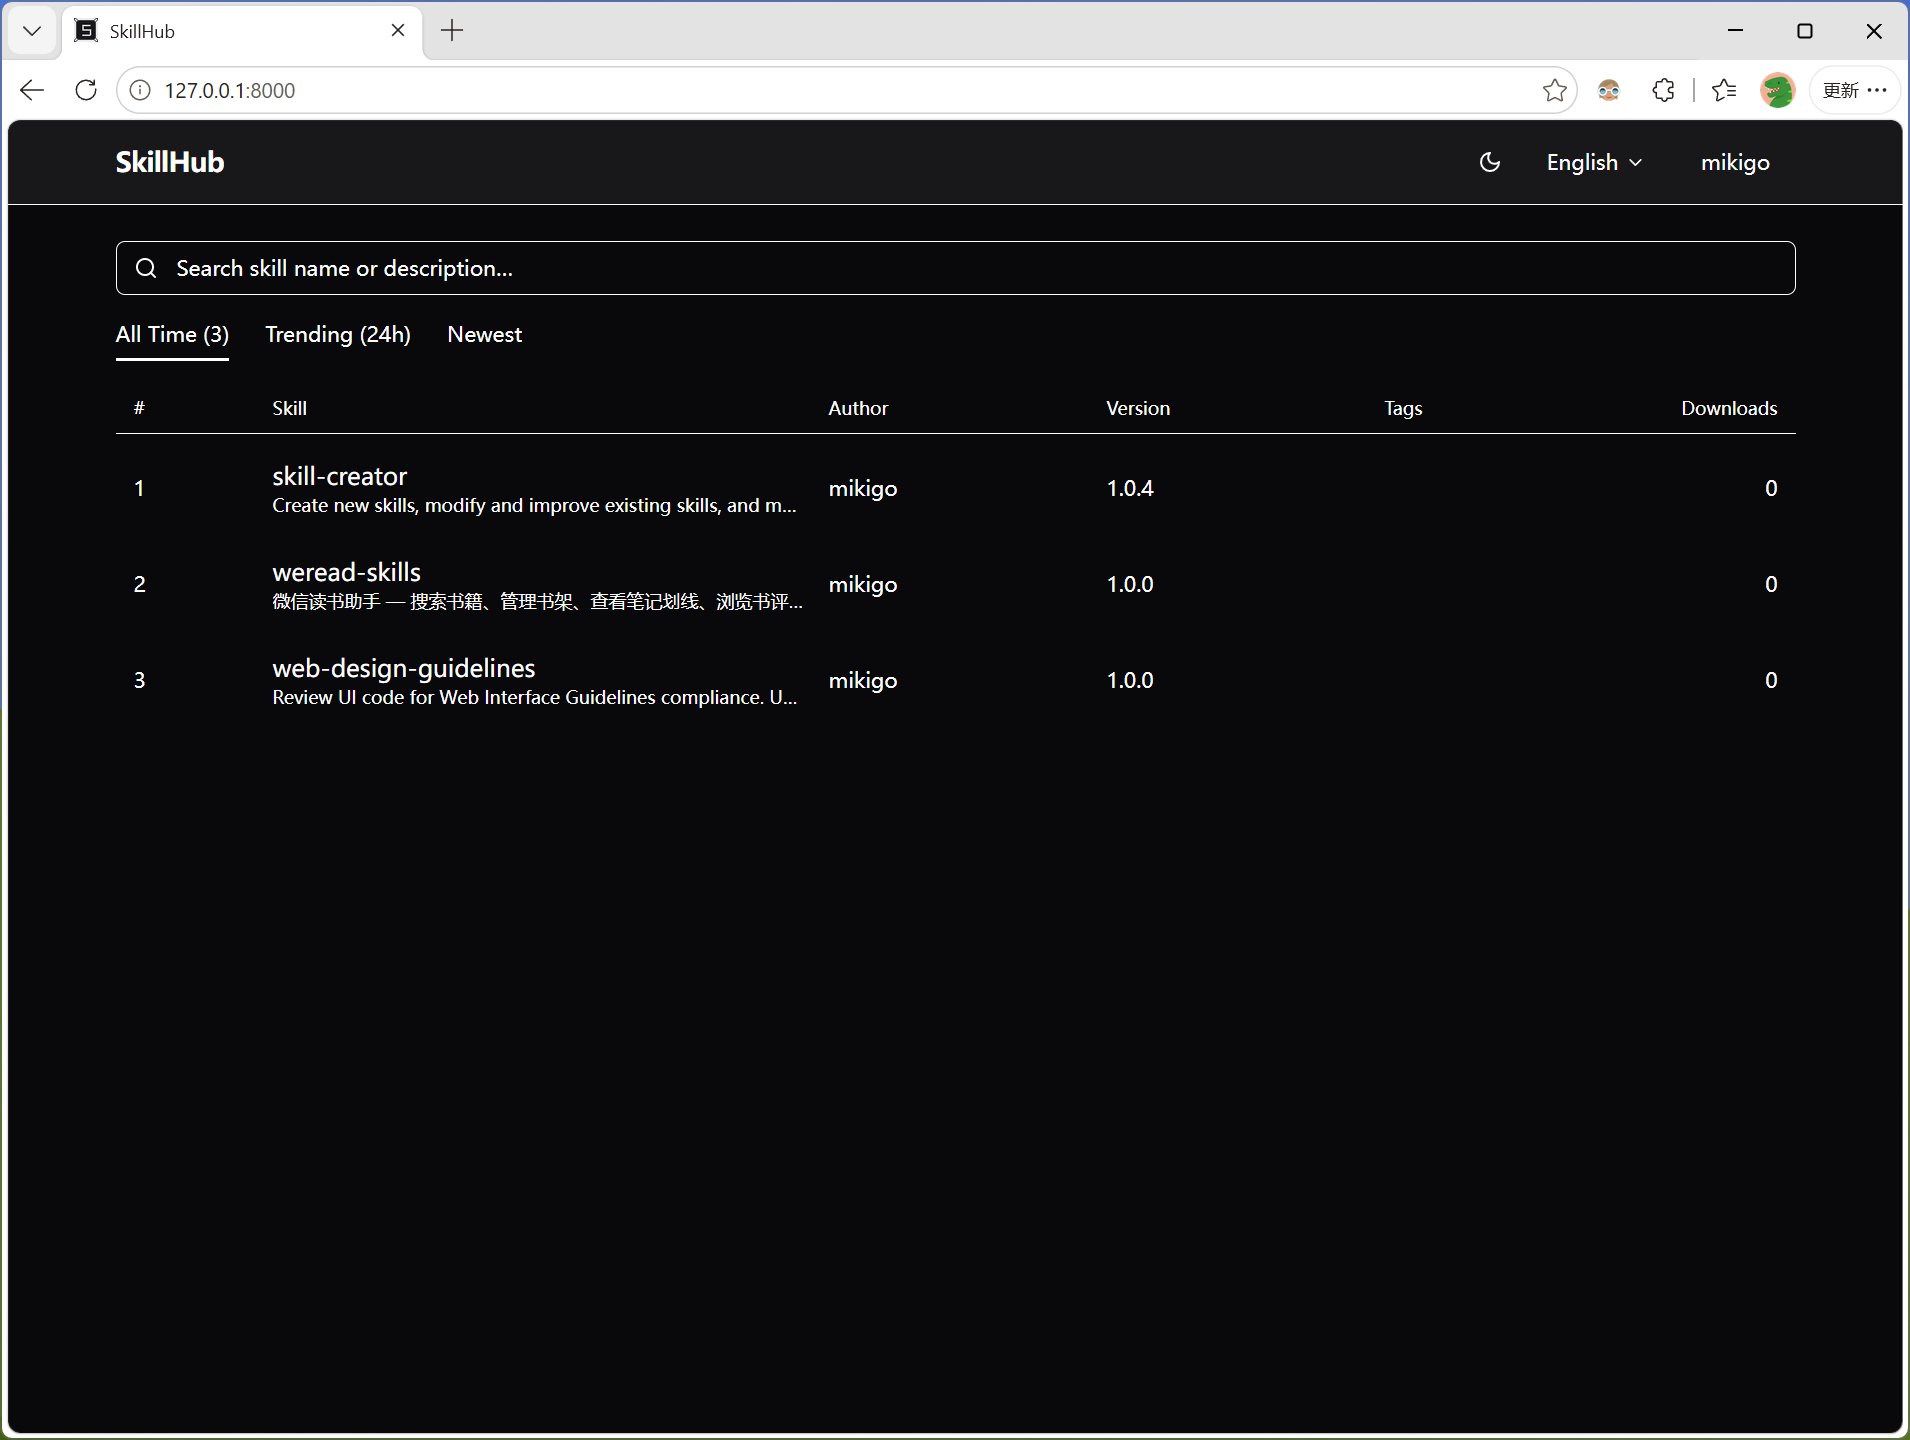
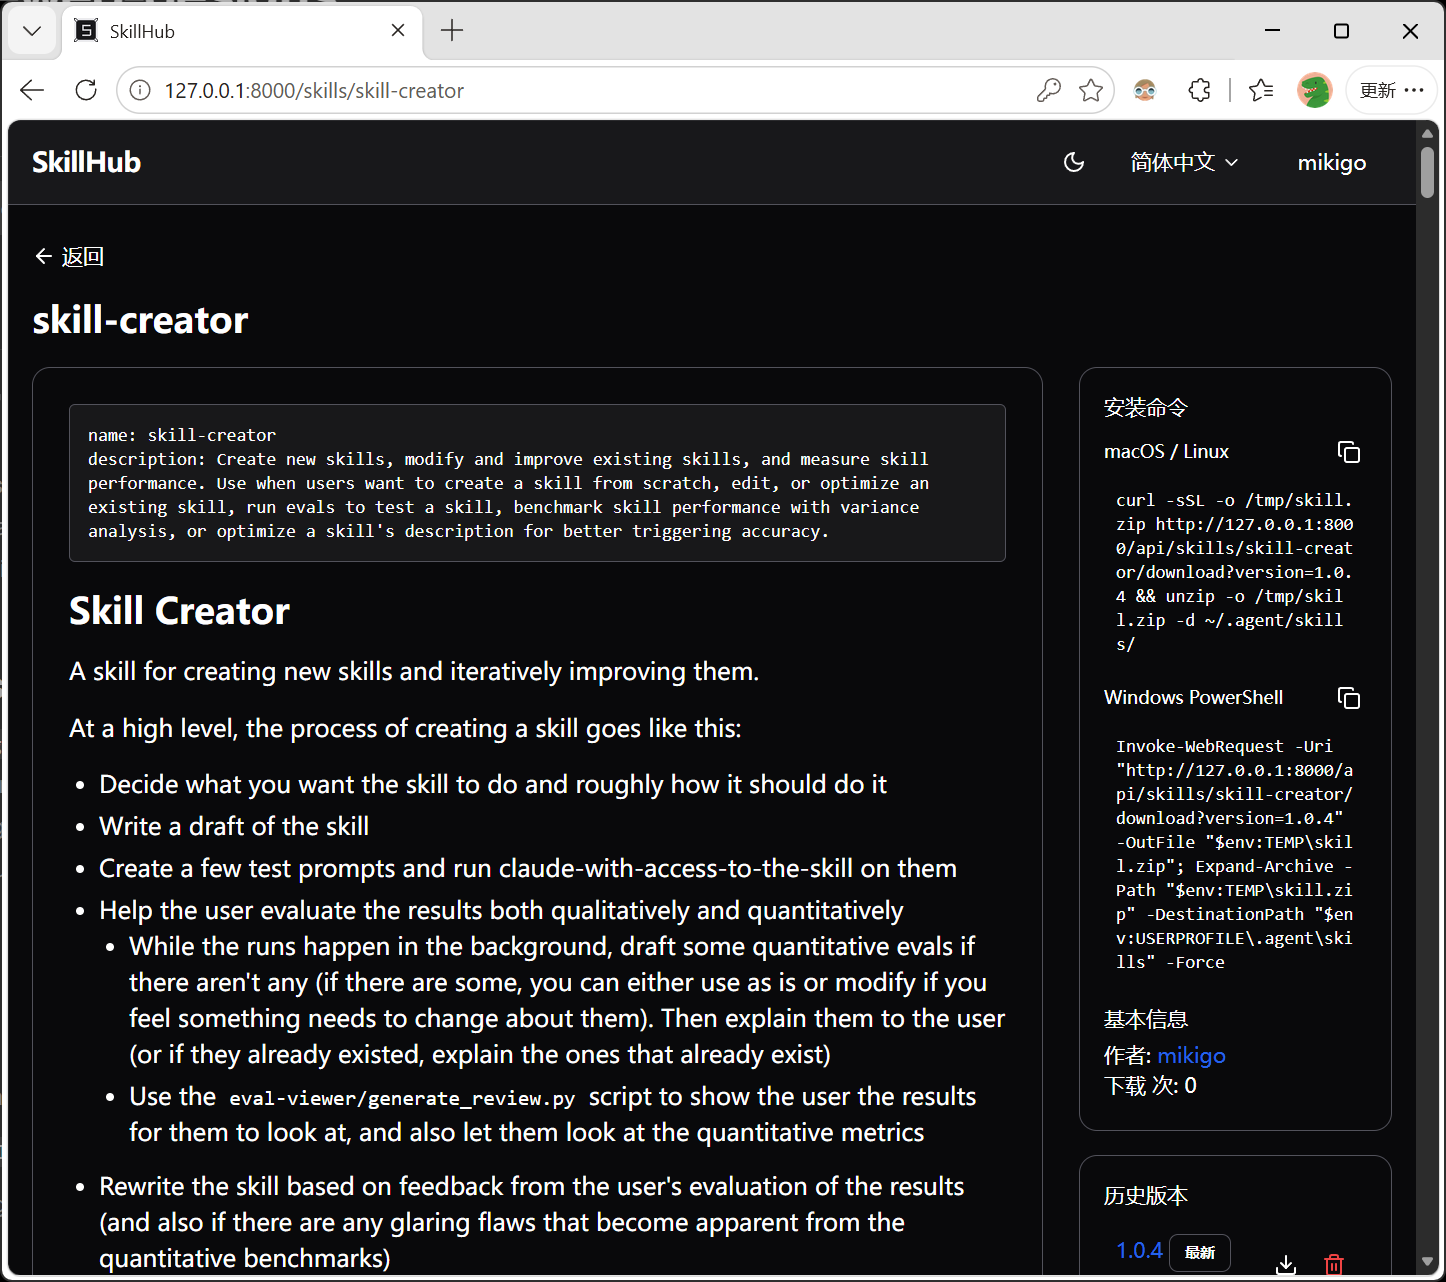
update

diff --git a/website/index.html b/website/index.html
@@ -195,11 +195,13 @@
       <h2 class="section-title" data-i18n="screenshots.title">简洁直观的界面</h2>
       <p class="section-desc" style="margin:0 auto 32px" data-i18n="screenshots.desc">精心设计的交互体验，团队上手即用。</p>
       <div class="tabs">
-        <button class="active" onclick="switchScreenshot('public/dark.png', this)" data-i18n="screenshots.tab1">暗色主题</button>
-        <button onclick="switchScreenshot('public/white.png', this)" data-i18n="screenshots.tab2">亮色主题</button>
-        <button onclick="switchScreenshot('public/login.png', this)" data-i18n="screenshots.tab3">登录页</button>
+        <button class="active" onclick="switchScreenshot('public/home.png', this)" data-i18n="screenshots.tab1">主页</button>
+        <button onclick="switchScreenshot('public/upload.png', this)" data-i18n="screenshots.tab2">上传页</button>
+        <button onclick="switchScreenshot('public/myskill.png', this)" data-i18n="screenshots.tab3">我的技能</button>
+        <button onclick="switchScreenshot('public/dark.png', this)" data-i18n="screenshots.tab4">暗色主题</button>
+        <button onclick="switchScreenshot('public/white.png', this)" data-i18n="screenshots.tab5">亮色主题</button>
       </div>
-      <img id="screenshot" src="public/dark.png" alt="暗色主题截图" class="screenshot-img">
+      <img id="screenshot" src="public/home.png" alt="主页截图" class="screenshot-img">
     </div>
   </section>
 
@@ -268,7 +270,7 @@
         'features.f5t':'主题与国际化','features.f5d':'亮色/暗色主题，中英文界面。支持自定义 Logo 与 Favicon。',
         'features.f6t':'管理面板','features.f6d':'审批用户、禁用/启用账号、创建用户。完全掌控访问权限。',
         'screenshots.label':'界面展示','screenshots.title':'简洁直观的界面','screenshots.desc':'精心设计的交互体验，团队上手即用。',
-        'screenshots.tab1':'暗色主题','screenshots.tab2':'亮色主题','screenshots.tab3':'登录页',
+        'screenshots.tab1':'主页','screenshots.tab2':'上传页','screenshots.tab3':'我的技能','screenshots.tab4':'暗色主题','screenshots.tab5':'亮色主题',
         'stats.label':'关键数据','stats.title':'为规模化而生',
         'stats.s1':'一个可执行文件','stats.s2':'种语言（中 / 英）','stats.s3':'外部依赖','stats.s4':'技能托管容量',
         'install.label':'快速开始','install.title':'三条命令完成安装','install.desc':'默认使用 SQLite，零配置启动。随时可升级至 PostgreSQL。',
@@ -289,7 +291,7 @@
         'features.f5t':'Dark Mode & i18n','features.f5d':'Light/dark themes. Chinese and English locales. Customizable logo, favicon via config.json.',
         'features.f6t':'Admin Dashboard','features.f6d':'Approve users, disable accounts, create users. Full control over who accesses your skill hub.',
         'screenshots.label':'Screenshots','screenshots.title':'Sleek and intuitive','screenshots.desc':'A polished interface your team will actually enjoy using.',
-        'screenshots.tab1':'Dark Theme','screenshots.tab2':'Light Theme','screenshots.tab3':'Login',
+        'screenshots.tab1':'Home','screenshots.tab2':'Upload','screenshots.tab3':'My Skills','screenshots.tab4':'Dark Theme','screenshots.tab5':'Light Theme',
         'stats.label':'By the Numbers','stats.title':'Built for scale',
         'stats.s1':'Binary to deploy','stats.s2':'Languages (EN / 中文)','stats.s3':'External dependencies','stats.s4':'Skills you can host',
         'install.label':'Quick Start','install.title':'Install in 3 commands','install.desc':'Zero-config SQLite by default. Scale to PostgreSQL when ready.',

diff --git a/frontend/src/pages/Home.tsx b/frontend/src/pages/Home.tsx
@@ -78,6 +78,9 @@ export default function Home() {
           <Search className="absolute left-3 top-1/2 -translate-y-1/2 h-4 w-4 text-muted-foreground" />
           <Input
             className="pl-10"
+            name="q"
+            autoComplete="off"
+            spellCheck={false}
             placeholder={t('home.search')}
             value={q}
             onChange={e => setQ(e.target.value)}
@@ -123,10 +126,9 @@ export default function Home() {
         <div className="text-center py-20 text-muted-foreground">{t('home.empty')}</div>
       ) : (
         <div className="space-y-2">
-          <div className="grid gap-3 text-xs text-muted-foreground px-3 py-2 border-b" style={{ gridTemplateColumns: '1fr 15fr 2fr 2fr' }}>
+          <div className="grid gap-3 text-xs text-muted-foreground px-3 py-2 border-b" style={{ gridTemplateColumns: '1fr 15fr 3fr' }}>
             <span>{t('home.headerNum')}</span>
             <span>{t('home.headerSkill')}</span>
-            <span>{t('home.headerAuthor')}</span>
             <span className="text-right">{t('home.headerDownloads')}</span>
           </div>
           {skills.map((skill, i) => (
@@ -134,18 +136,12 @@ export default function Home() {
               key={skill.name}
               to={`/skills/${skill.name}`}
               className="grid gap-3 px-3 py-2 rounded hover:bg-muted items-center"
-              style={{ gridTemplateColumns: '1fr 15fr 2fr 2fr' }}
+              style={{ gridTemplateColumns: '1fr 15fr 3fr' }}
             >
               <span className="text-sm text-muted-foreground">{(page - 1) * PAGE_SIZE + i + 1}</span>
               <div className="min-w-0" title={skill.description}>
                 <div className="font-medium truncate">{skill.display_name}</div>
                 <div className="text-xs text-muted-foreground truncate">{skill.description}</div>
-              </div>
-<div className="min-w-0">
-                <Link to={`/author/${skill.author.username}`} className="text-sm text-muted-foreground hover:text-blue-500 truncate">
-                  {skill.author.username}
-                </Link>
-                {skill.original_author && <div className="text-xs text-muted-foreground truncate">{skill.original_author}</div>}
               </div>
               <span className="text-sm text-right text-muted-foreground">{skill.download_count.toLocaleString()}</span>
             </Link>

diff --git a/frontend/src/components/ui/dialog.tsx b/frontend/src/components/ui/dialog.tsx
@@ -36,15 +36,14 @@ const DialogContent = React.forwardRef<
     <DialogPrimitive.Content
       ref={ref}
       className={cn(
-        "fixed left-[50%] top-[50%] z-50 grid w-full max-w-lg translate-x-[-50%] translate-y-[-50%] gap-4 border bg-background p-6 shadow-lg duration-200 data-[state=open]:animate-in data-[state=closed]:animate-out data-[state=closed]:fade-out-0 data-[state=open]:fade-in-0 data-[state=closed]:zoom-out-95 data-[state=open]:zoom-in-95 data-[state=closed]:slide-out-to-left-1/2 data-[state=closed]:slide-out-to-top-[48%] data-[state=open]:slide-in-from-left-1/2 data-[state=open]:slide-in-from-top-[48%] sm:rounded-lg",
+        "fixed left-[50%] top-[50%] z-50 grid w-full max-w-lg translate-x-[-50%] translate-y-[-50%] gap-4 border bg-background p-6 shadow-lg duration-200 data-[state=open]:animate-in data-[state=closed]:animate-out data-[state=closed]:fade-out-0 data-[state=open]:fade-in-0 data-[state=closed]:zoom-out-95 data-[state=open]:zoom-in-95 data-[state=closed]:slide-out-to-left-1/2 data-[state=closed]:slide-out-to-top-[48%] data-[state=open]:slide-in-from-left-1/2 data-[state=open]:slide-in-from-top-[48%] sm:rounded-lg overscroll-contain",
         className
       )}
       {...props}
     >
       {children}
-      <DialogPrimitive.Close className="absolute right-4 top-4 rounded-sm opacity-70 ring-offset-background transition-opacity hover:opacity-100 focus:outline-none focus:ring-2 focus:ring-ring focus:ring-offset-2 disabled:pointer-events-none data-[state=open]:bg-accent data-[state=open]:text-muted-foreground">
-        <X className="h-4 w-4" />
-        <span className="sr-only">Close</span>
+      <DialogPrimitive.Close aria-label="Close" className="absolute right-4 top-4 rounded-sm opacity-70 ring-offset-background transition-opacity hover:opacity-100 focus:outline-none focus:ring-2 focus:ring-ring focus:ring-offset-2 disabled:pointer-events-none data-[state=open]:bg-accent data-[state=open]:text-muted-foreground">
+        <X className="h-4 w-4" aria-hidden="true" />
       </DialogPrimitive.Close>
     </DialogPrimitive.Content>
   </DialogPortal>

diff --git a/frontend/src/pages/SkillDetail.tsx b/frontend/src/pages/SkillDetail.tsx
@@ -201,9 +201,9 @@ export default function SkillDetail() {
               <div className="text-sm text-muted-foreground mb-2">{t('skillDetail.versions')}</div>
               <div className="space-y-1">
                 {skill.versions.map((v) => (
-                  <div
+                  <button
                     key={v.version}
-                    className={`flex items-center justify-between p-2 rounded text-sm cursor-pointer ${selectedVersion === v.version ? 'bg-primary/10 dark:bg-primary/20' : 'hover:bg-muted dark:bg-zinc-800/50'}`}
+                    className={`w-full flex items-center justify-between p-2 rounded text-sm cursor-pointer text-left ${selectedVersion === v.version ? 'bg-primary/10 dark:bg-primary/20' : 'hover:bg-muted dark:bg-zinc-800/50'}`}
                     onClick={() => handleVersionClick(v.version)}
                   >
                     <div>
@@ -213,15 +213,15 @@ export default function SkillDetail() {
                     </div>
                     <div className="flex gap-1">
                       <a href={`api/skills/${name}/download?version=${v.version}`} onClick={e => e.stopPropagation()}>
-                        <Button variant="ghost" size="icon" className="h-7 w-7"><Download className="h-3 w-3" /></Button>
+                        <Button variant="ghost" size="icon" className="h-7 w-7" aria-label="Download"><Download className="h-3 w-3" /></Button>
                       </a>
                       {isAuthor && (
-                        <Button variant="ghost" size="icon" className="h-7 w-7 text-red-500" onClick={(e) => { e.stopPropagation(); handleDeleteVersion(v.version) }}>
+                        <Button variant="ghost" size="icon" className="h-7 w-7 text-red-500" aria-label="Delete" onClick={(e) => { e.stopPropagation(); handleDeleteVersion(v.version) }}>
                           <Trash2 className="h-3 w-3" />
                         </Button>
                       )}
                     </div>
-                  </div>
+                  </button>
                 ))}
               </div>
             </CardContent>

diff --git a/frontend/src/components/Layout.tsx b/frontend/src/components/Layout.tsx
@@ -65,7 +65,7 @@ export default function Layout() {
       <header className={`sticky top-0 z-50 border-b bg-white dark:bg-zinc-900 transition-transform duration-300 ${headerVisible ? 'translate-y-0' : '-translate-y-full'}`}>
         <div className="max-w-6xl mx-auto px-4 h-14 flex items-center justify-between">
           <Link to="/" className="flex items-center gap-2 font-semibold tracking-tight text-lg" translate="no">
-            {siteConfig.logo && <img src="/api/config/logo" alt="" className="h-6 w-6 object-contain" />}
+            {siteConfig.logo && <img src="/api/config/logo" alt="" width="24" height="24" className="h-6 w-6 object-contain" />}
             <span>{siteConfig.logo_text}</span>
           </Link>
           <div className="flex items-center">
@@ -74,8 +74,8 @@ export default function Layout() {
               className="inline-flex h-9 w-9 shrink-0 items-center justify-center rounded-md text-muted-foreground transition-colors hover:bg-muted hover:text-foreground"
               onClick={() => setTheme(theme === 'dark' ? 'light' : 'dark')}
             >
-              <Sun className="h-4 w-4 rotate-0 scale-100 transition-all dark:-rotate-90 dark:scale-0" />
-              <Moon className="absolute h-4 w-4 rotate-90 scale-0 transition-all dark:rotate-0 dark:scale-100" />
+              <Sun className="h-4 w-4 rotate-0 scale-100 transition-all dark:-rotate-90 dark:scale-0" aria-hidden="true" />
+              <Moon className="absolute h-4 w-4 rotate-90 scale-0 transition-all dark:rotate-0 dark:scale-100" aria-hidden="true" />
             </button>
             <div className="relative mx-3" ref={langMenuRef}>
               <button

diff --git a/frontend/src/pages/Register.tsx b/frontend/src/pages/Register.tsx
@@ -49,15 +49,15 @@ export default function Register() {
           <form onSubmit={handleSubmit} className="space-y-4">
             <div>
               <Label htmlFor="username">{t('auth.username')}</Label>
-              <Input id="username" value={username} onChange={e => setUsername(e.target.value)} required />
+              <Input id="username" name="username" autoComplete="username" spellCheck={false} value={username} onChange={e => setUsername(e.target.value)} required />
             </div>
             <div>
               <Label htmlFor="password">{t('auth.password')}</Label>
-              <Input id="password" type="password" value={password} onChange={e => setPassword(e.target.value)} required />
+              <Input id="password" name="password" type="password" autoComplete="new-password" value={password} onChange={e => setPassword(e.target.value)} required />
             </div>
             <div>
               <Label htmlFor="confirm">{t('auth.confirmPassword')}</Label>
-              <Input id="confirm" type="password" value={confirm} onChange={e => setConfirm(e.target.value)} required />
+              <Input id="confirm" name="confirm" type="password" autoComplete="new-password" value={confirm} onChange={e => setConfirm(e.target.value)} required />
             </div>
             <p className="text-xs text-muted-foreground">{t('auth.pendingNote')}</p>
             <Button type="submit" className="w-full" disabled={loading}>

diff --git a/frontend/src/pages/Admin.tsx b/frontend/src/pages/Admin.tsx
@@ -94,8 +94,8 @@ export default function Admin() {
           <DialogContent>
             <DialogHeader><DialogTitle>{t('admin.createTitle')}</DialogTitle></DialogHeader>
             <form onSubmit={createUser} className="space-y-3">
-              <div><Label>{t('auth.username')}</Label><Input value={newUsername} onChange={e => setNewUsername(e.target.value)} required /></div>
-              <div><Label>{t('auth.password')}</Label><Input type="password" value={newPassword} onChange={e => setNewPassword(e.target.value)} required /></div>
+              <div><Label>{t('auth.username')}</Label><Input name="username" autoComplete="username" spellCheck={false} value={newUsername} onChange={e => setNewUsername(e.target.value)} required /></div>
+              <div><Label>{t('auth.password')}</Label><Input name="password" type="password" autoComplete="new-password" value={newPassword} onChange={e => setNewPassword(e.target.value)} required /></div>
               <Button type="submit">{t('admin.createUser')}</Button>
             </form>
           </DialogContent>

diff --git a/frontend/src/pages/Login.tsx b/frontend/src/pages/Login.tsx
@@ -49,11 +49,11 @@ export default function Login() {
           <form onSubmit={handleSubmit} className="space-y-4">
             <div>
               <Label htmlFor="username">{t('auth.username')}</Label>
-              <Input id="username" value={username} onChange={e => setUsername(e.target.value)} required />
+              <Input id="username" name="username" autoComplete="username" spellCheck={false} value={username} onChange={e => setUsername(e.target.value)} required />
             </div>
             <div>
               <Label htmlFor="password">{t('auth.password')}</Label>
-              <Input id="password" type="password" value={password} onChange={e => setPassword(e.target.value)} required />
+              <Input id="password" name="password" type="password" autoComplete="current-password" value={password} onChange={e => setPassword(e.target.value)} required />
             </div>
             <Button type="submit" className="w-full" disabled={loading}>
               {loading ? t('auth.loggingIn') : t('auth.loginBtn')}

diff --git a/frontend/src/components/ui/tabs.tsx b/frontend/src/components/ui/tabs.tsx
@@ -27,7 +27,7 @@ const TabsTrigger = React.forwardRef<
   <TabsPrimitive.Trigger
     ref={ref}
     className={cn(
-      "inline-flex items-center justify-center whitespace-nowrap rounded-md px-3 py-1 text-sm font-medium ring-offset-background transition-all focus-visible:outline-none focus-visible:ring-2 focus-visible:ring-ring focus-visible:ring-offset-2 disabled:pointer-events-none disabled:opacity-50 data-[state=active]:bg-background data-[state=active]:text-foreground data-[state=active]:shadow",
+      "inline-flex items-center justify-center whitespace-nowrap rounded-md px-3 py-1 text-sm font-medium ring-offset-background transition-colors focus-visible:outline-none focus-visible:ring-2 focus-visible:ring-ring focus-visible:ring-offset-2 disabled:pointer-events-none disabled:opacity-50 data-[state=active]:bg-background data-[state=active]:text-foreground data-[state=active]:shadow",
       className
     )}
     {...props}

diff --git a/frontend/src/contexts/I18nContext.tsx b/frontend/src/contexts/I18nContext.tsx
@@ -26,7 +26,7 @@ export function I18nProvider({ children }: { children: ReactNode }) {
       const stored = localStorage.getItem(STORAGE_KEY)
       if (stored === 'zh' || stored === 'en') return stored
     } catch {}
-    return 'en'
+    return 'zh'
   })
 
   useEffect(() => {

diff --git a/skillhub_selfhost/config.py b/skillhub_selfhost/config.py
@@ -18,7 +18,7 @@ class Config:
     logo_text: str = "SkillHub"
     logo: str = ""
     favicon: str = ""
-    default_lang: str = "en"
+    default_lang: str = "zh"
 
     def __post_init__(self):
         self._load_config_json()

diff --git a/skillhub_selfhost/__version__.py b/skillhub_selfhost/__version__.py
@@ -1,0 +1,1 @@
+__version__ = "1.0.0"
